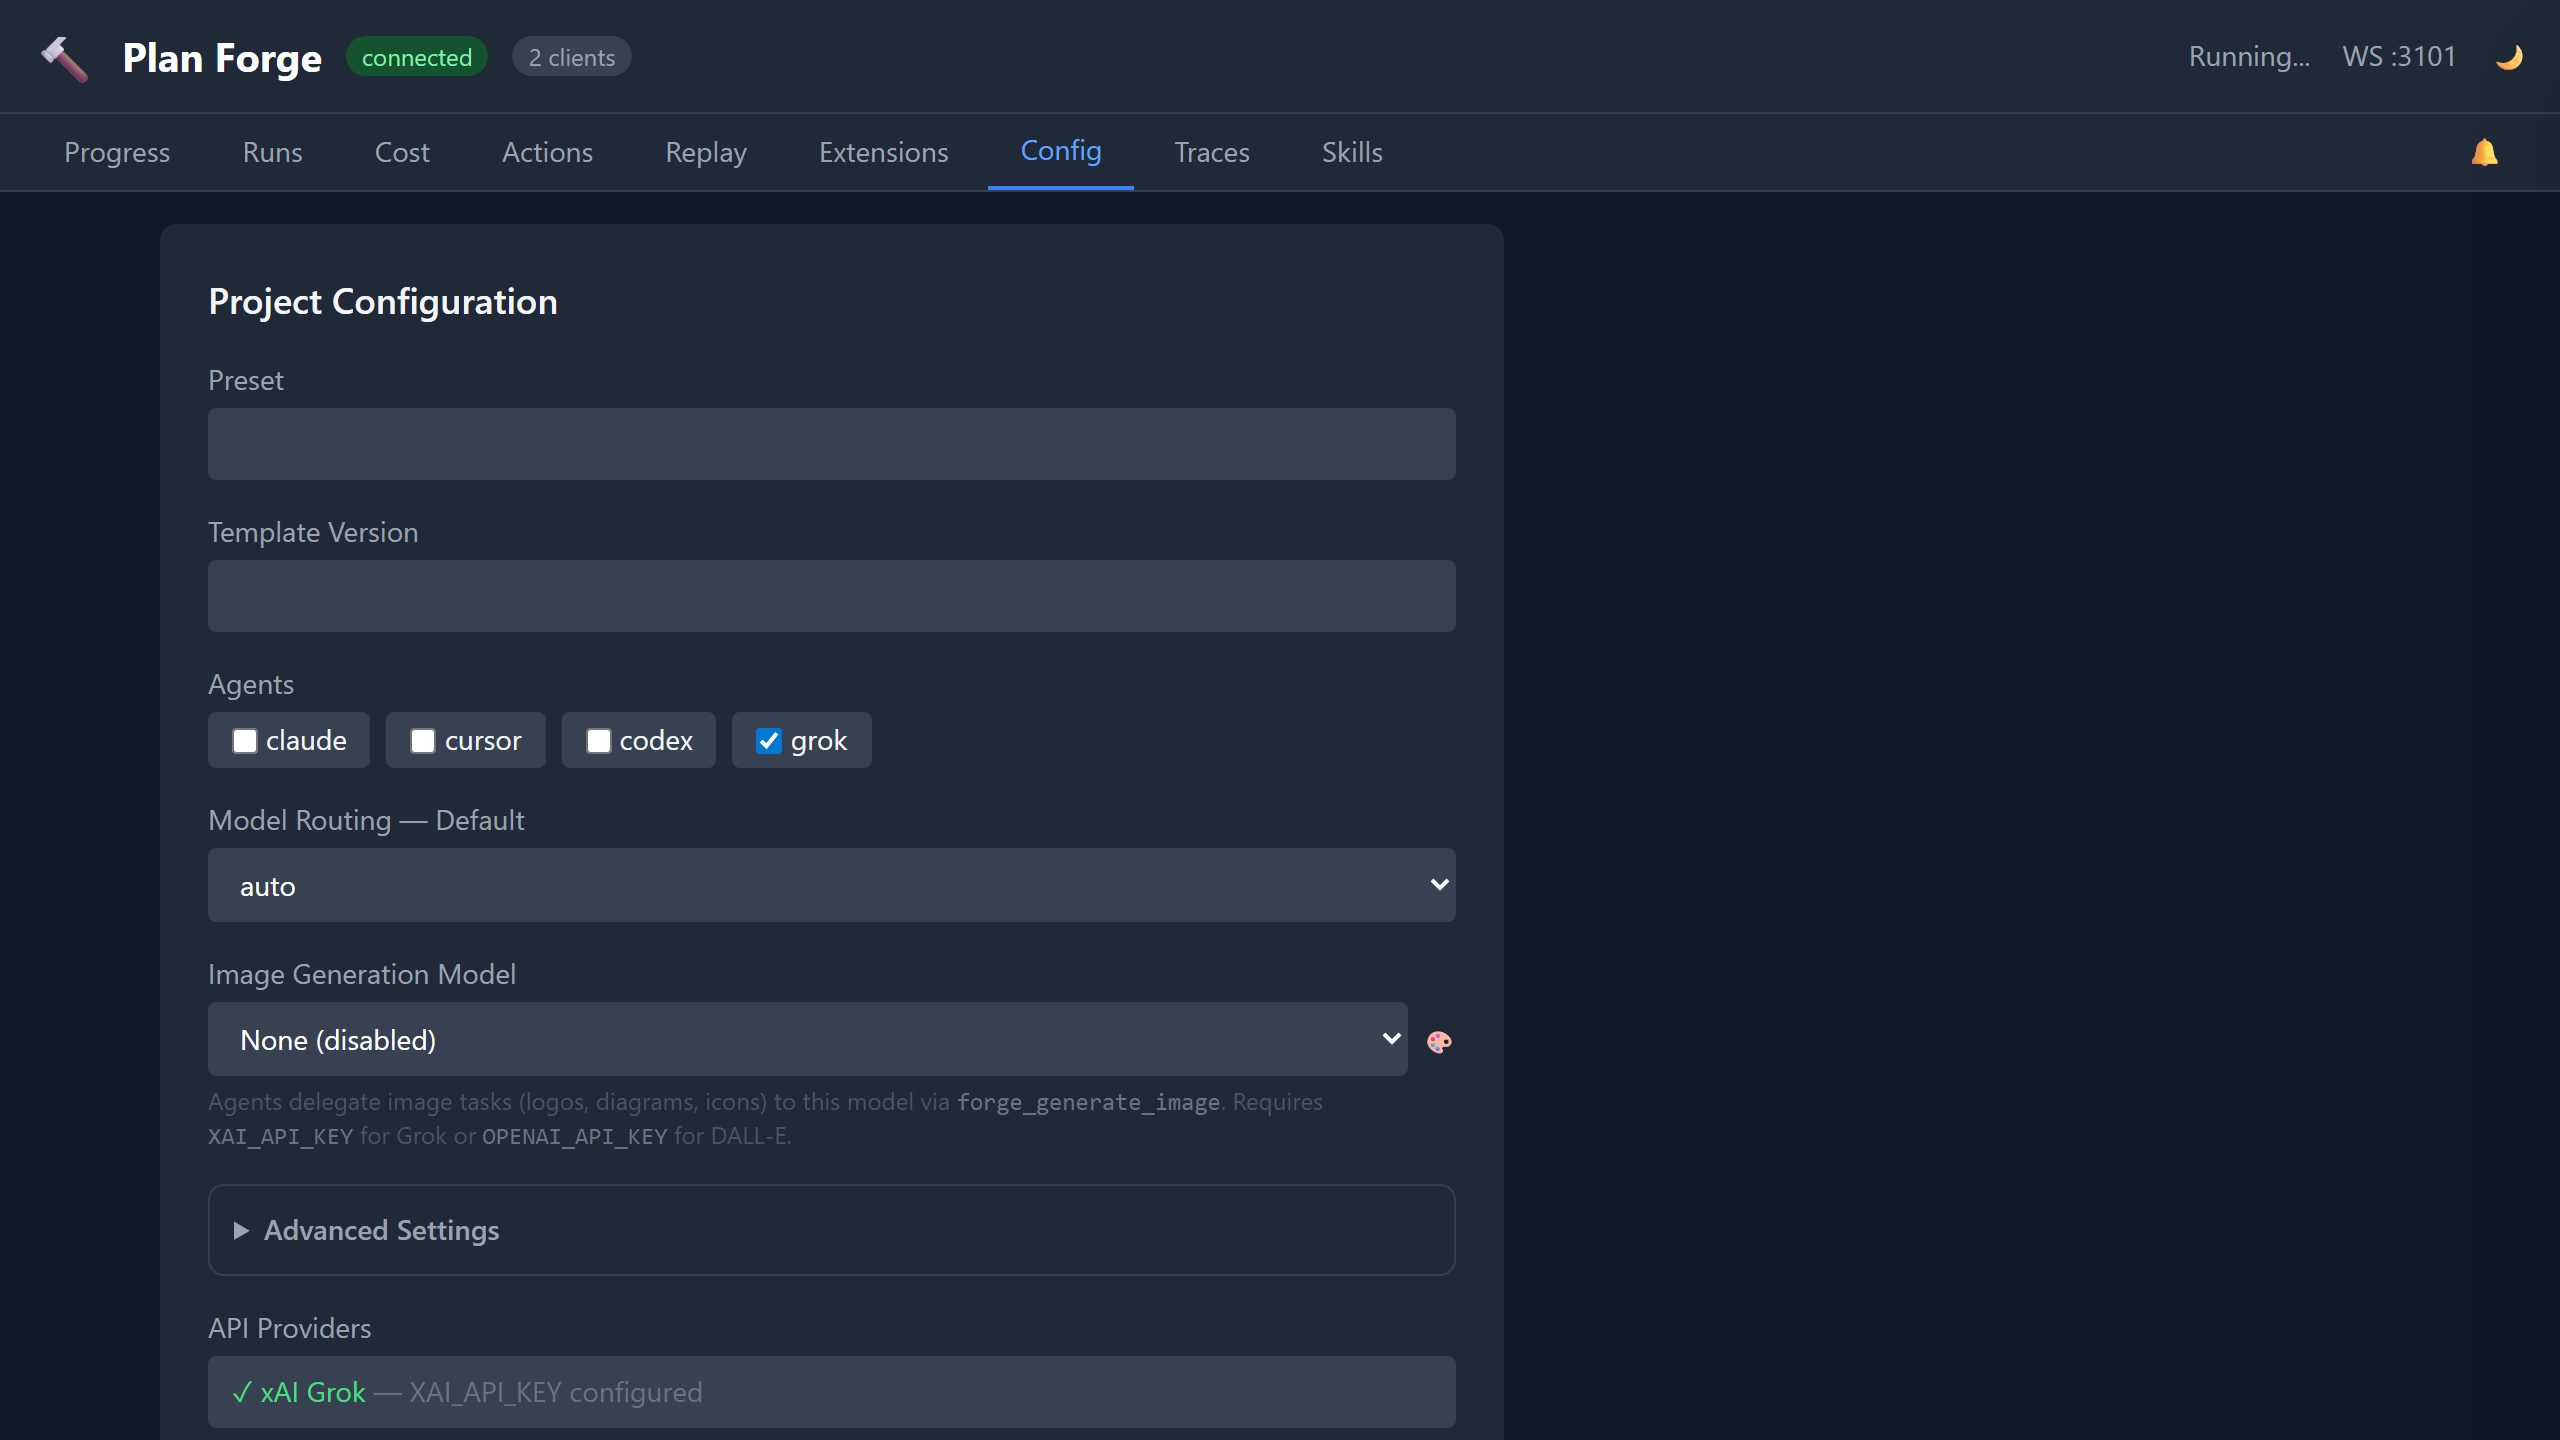
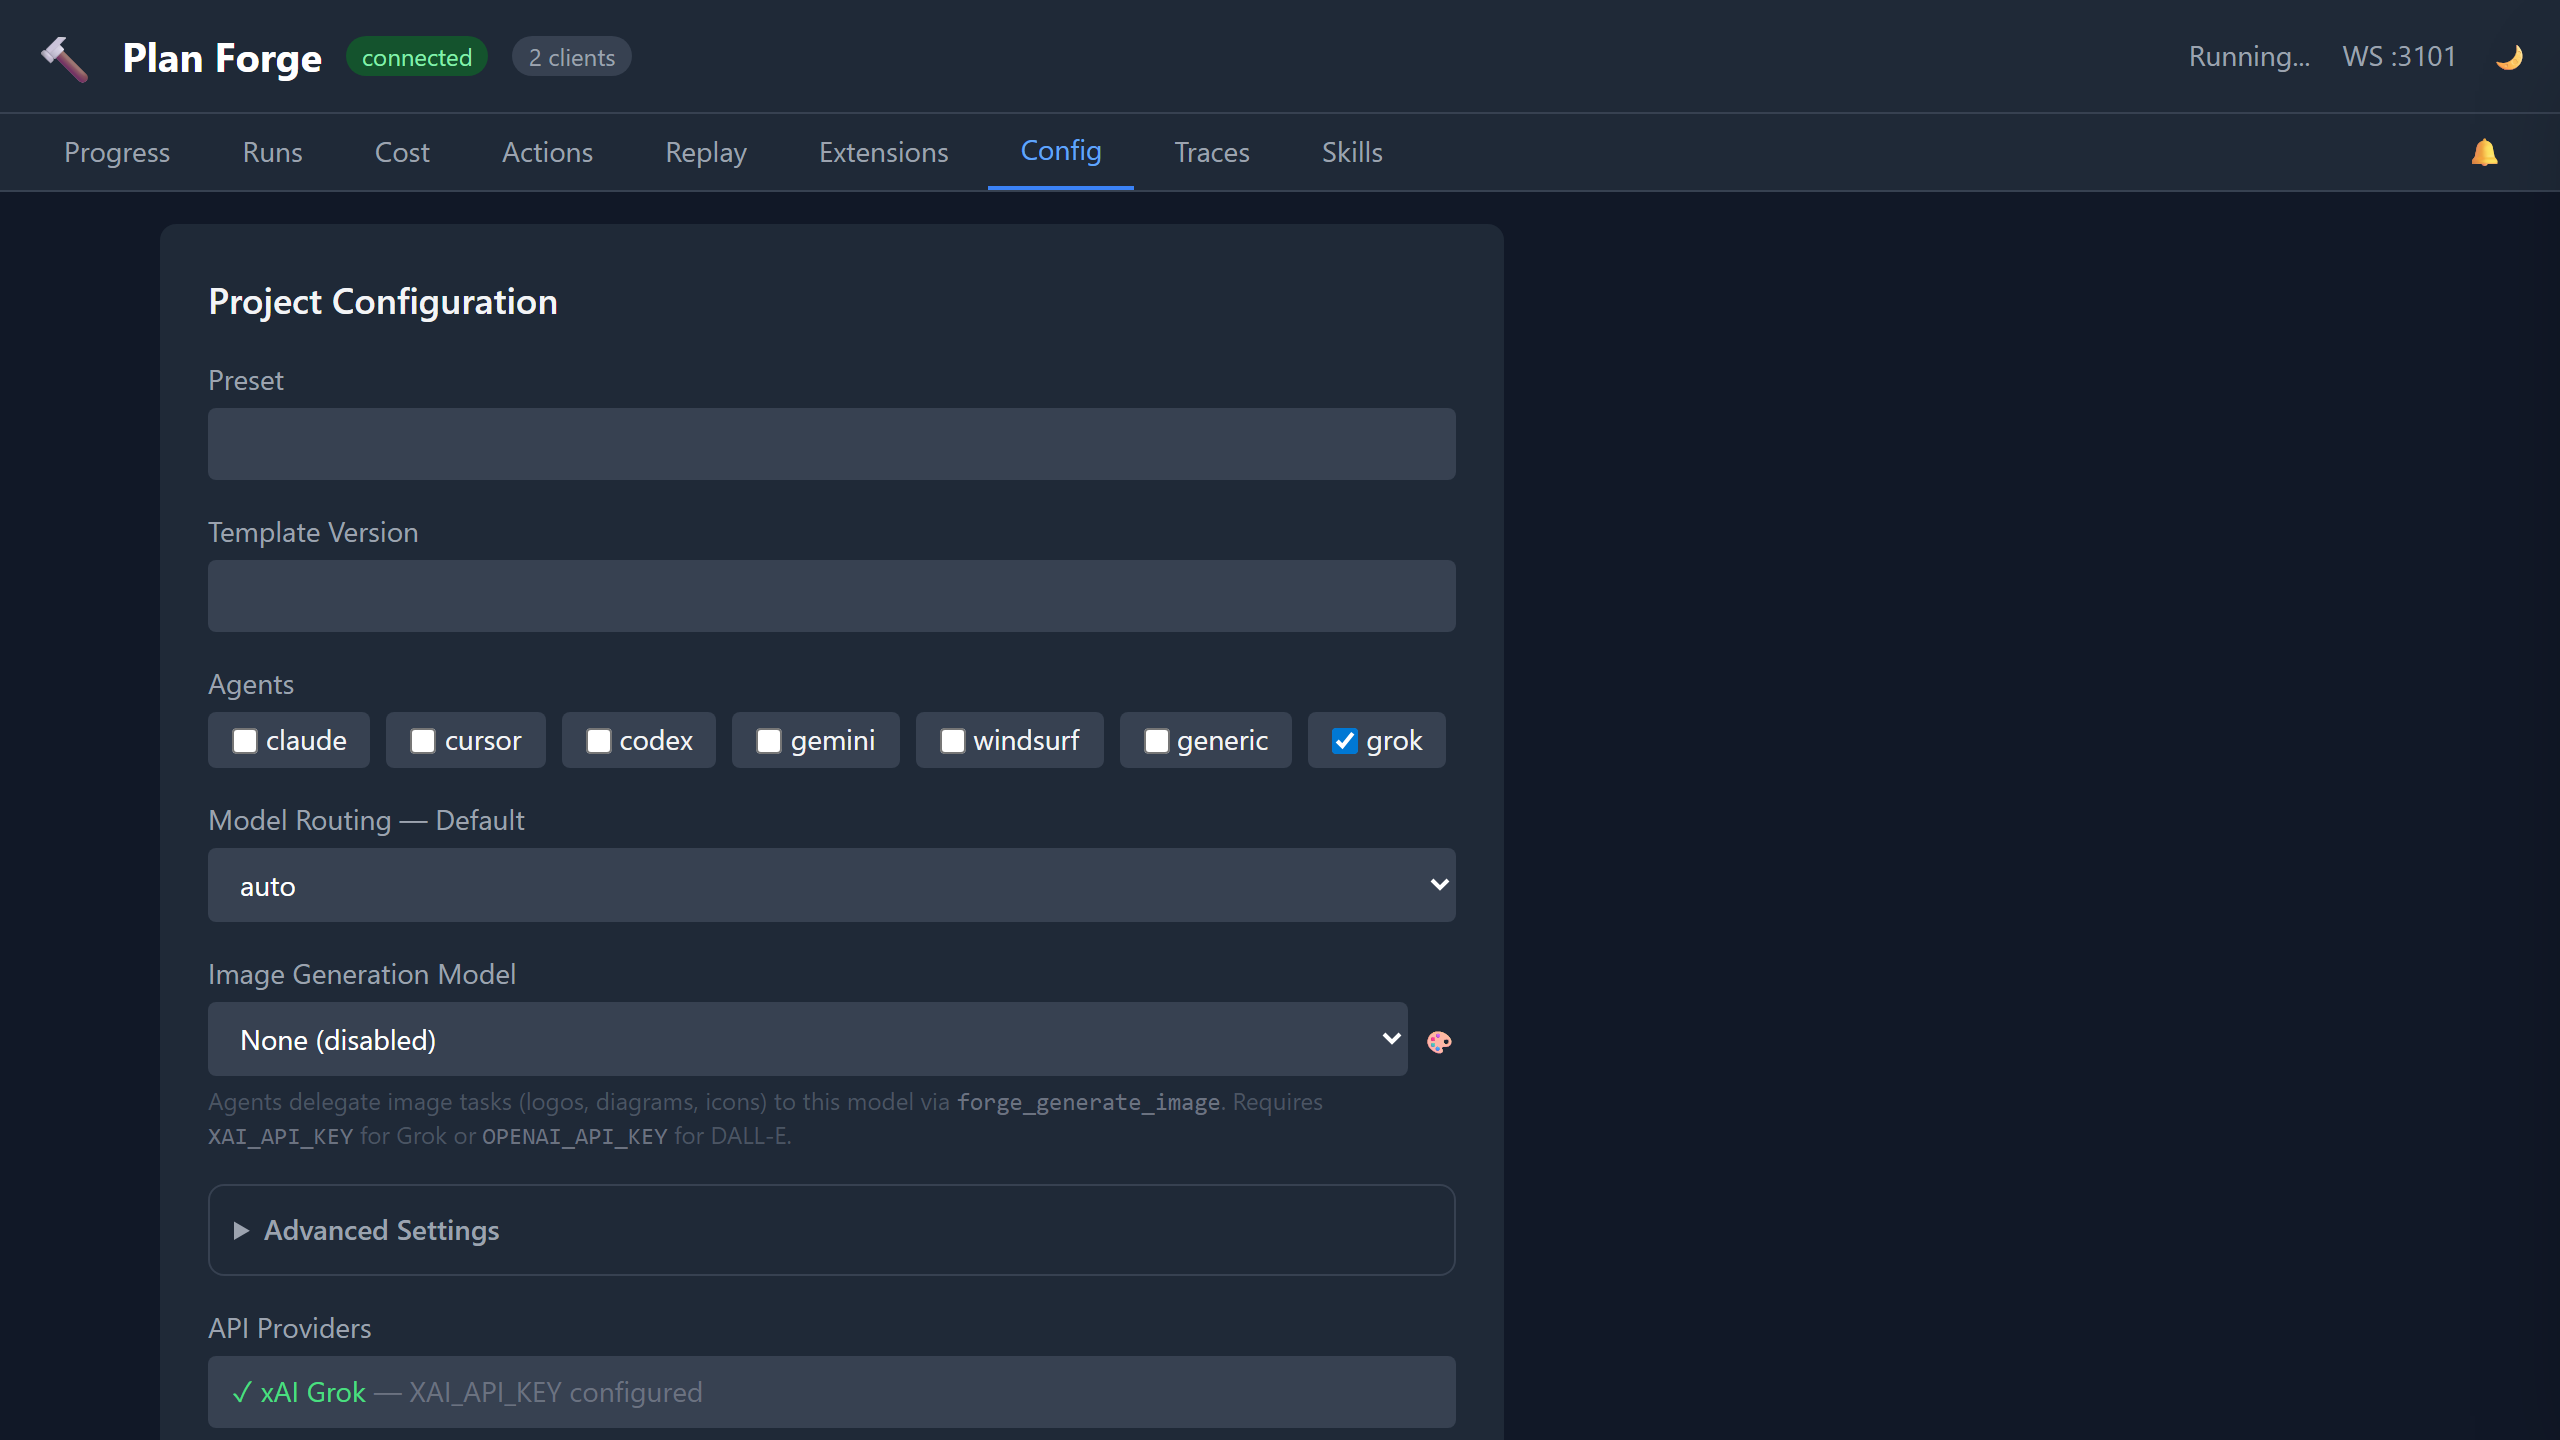
fix(dashboard): add gemini/windsurf/generic to agent checkboxes + re-capture screenshots

Changed region(s): [[0.2812, 0.4688, 0.5625, 0.5312]]

diff --git a/pforge-mcp/dashboard/app.js b/pforge-mcp/dashboard/app.js
@@ -1765,7 +1765,7 @@ async function loadConfig() {
 
     // Agents checkboxes
     const agentsEl = document.getElementById("cfg-agents");
-    const allAgents = ["claude", "cursor", "codex", "grok"];
+    const allAgents = ["claude", "cursor", "codex", "gemini", "windsurf", "generic", "grok"];
     const active = currentConfig.agents || [];
     agentsEl.innerHTML = allAgents.map((a) => `
       <label class="flex items-center gap-1 bg-gray-700 px-3 py-1 rounded text-sm cursor-pointer">
